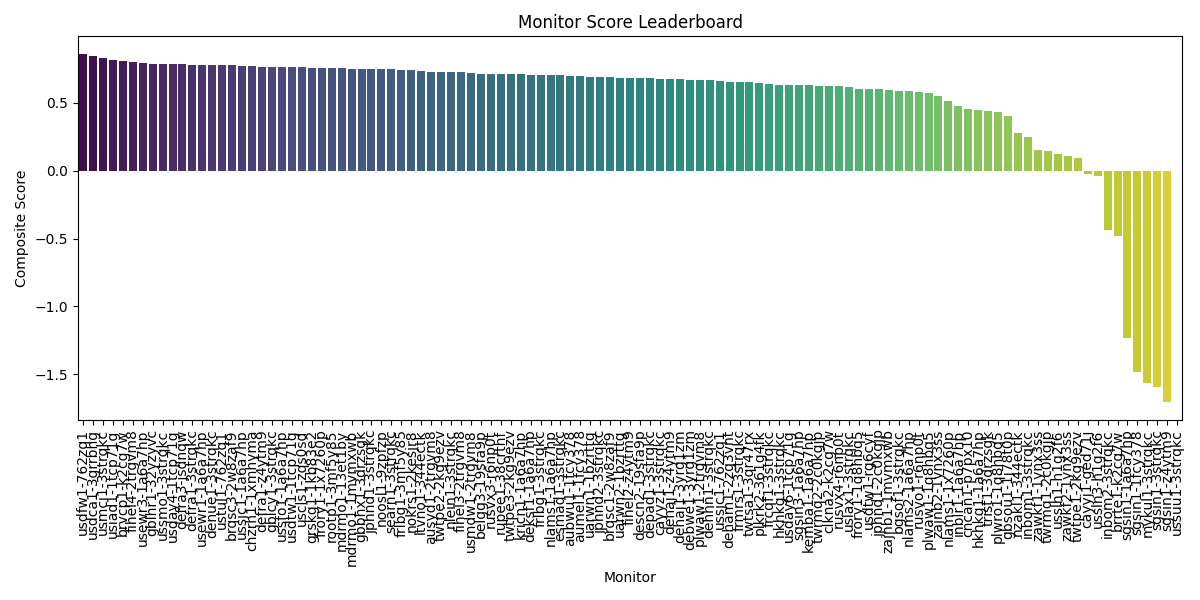
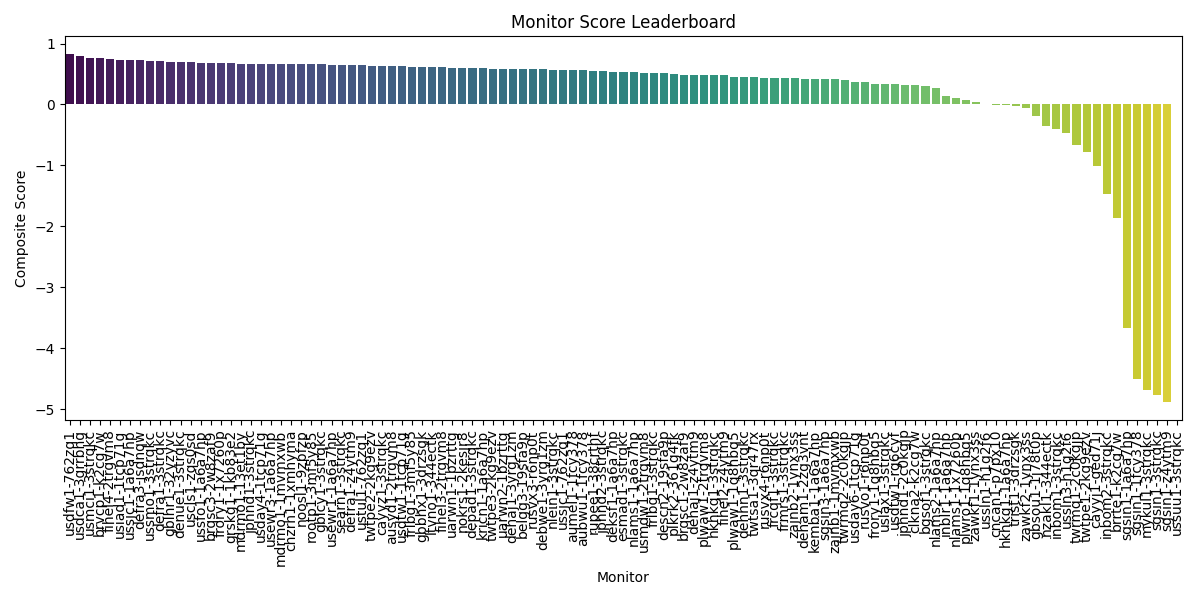
update ntp_analysis.py and plots

diff --git a/ntp_analysis.py b/ntp_analysis.py
@@ -27,8 +27,8 @@ Data Source:
 
 # --- Threshold Parameters ---
 THRESHOLD_OFFSET = 0.020   # 20ms offset compliance
-THRESHOLD_JITTER = 0.005   # 5ms jitter compliance
-THRESHOLD_RTT = 300        # 300ms RTT compliance
+THRESHOLD_JITTER = 0.002   # 2ms jitter compliance
+THRESHOLD_RTT = 200        # 200ms RTT compliance
 
 # Load CSV
 df = pd.read_csv("ntp.txt")
